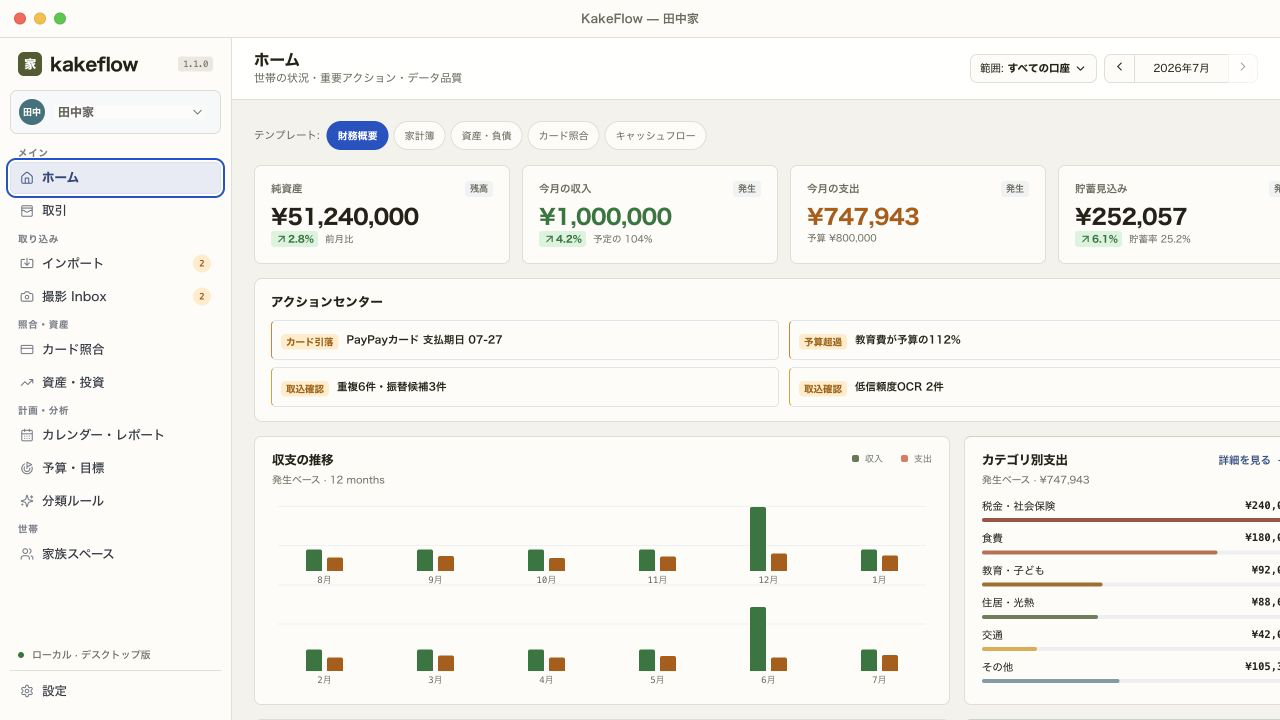
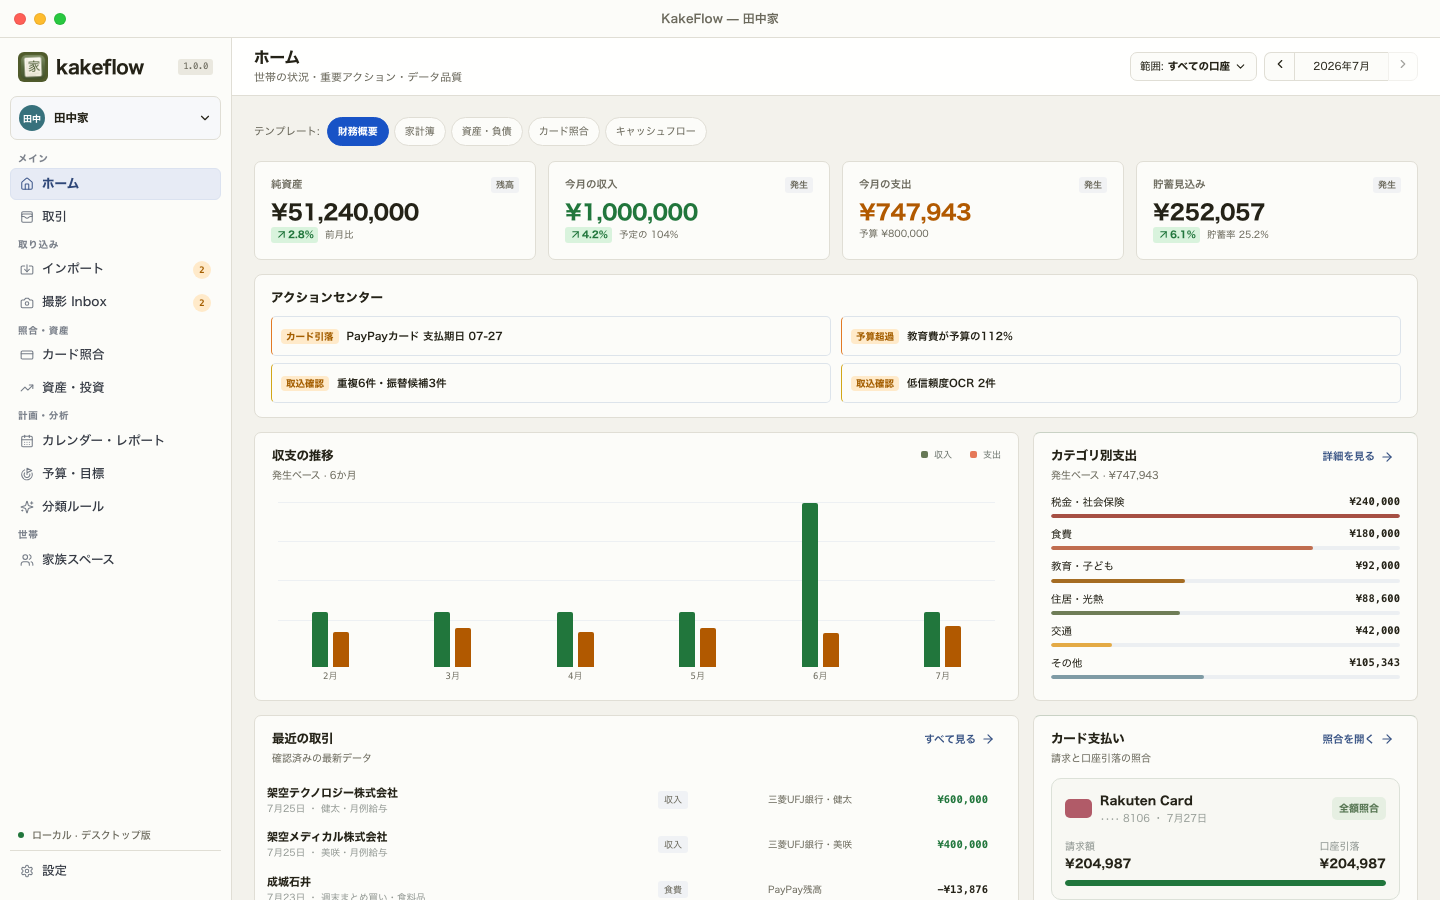
feat: publish KakeFlow 1.0.0 product page

diff --git a/apps/kakeflow/index.html b/apps/kakeflow/index.html
@@ -3,40 +3,35 @@
 <head>
   <meta charset="utf-8">
   <meta name="viewport" content="width=device-width, initial-scale=1">
-  <title>KakeFlow — 家計の全体像と、次のアクションをひとつに。</title>
-  <meta name="description" content="KakeFlow は、家計データを端末内で取り込み、確認し、根拠の残る台帳から次に必要なアクションまで見渡せる、開発中のローカルファースト・デスクトップアプリです。">
+  <title>KakeFlow 1.0.0 — 原本から、判断できる家計へ。</title>
+  <meta name="description" content="KakeFlow は、銀行・カード・証券・レシートのデータを端末内で取り込み、確認してから台帳へ反映するローカルファースト家計管理アプリです。">
   <link rel="canonical" href="https://thangldw.github.io/apps/kakeflow/">
   <meta property="og:type" content="website">
-  <meta property="og:title" content="KakeFlow — 家計の全体像と、次のアクションをひとつに。">
-  <meta property="og:description" content="取り込み、確認、照合、計画を、ひとつの家計ワークスペースで。">
+  <meta property="og:title" content="KakeFlow 1.0.0 — 原本から、判断できる家計へ。">
+  <meta property="og:description" content="取り込み、確認、照合、計画を、根拠の残るローカル台帳で。">
   <meta property="og:url" content="https://thangldw.github.io/apps/kakeflow/">
   <meta property="og:image" content="https://thangldw.github.io/apps/kakeflow/assets/screenshots/kakeflow-overview.png">
-  <meta property="og:image:width" content="1280">
-  <meta property="og:image:height" content="720">
+  <meta property="og:image:width" content="1440">
+  <meta property="og:image:height" content="900">
   <meta name="twitter:card" content="summary_large_image">
   <meta name="theme-color" content="#f2f1ec">
   <link rel="icon" href="/favicon.svg" type="image/svg+xml">
-  <link rel="stylesheet" href="kakeflow-page.css?v=20260716-v2">
+  <link rel="stylesheet" href="kakeflow-page.css?v=20260718-v1">
   <script defer src="/js/analytics.js"></script>
 </head>
 <body>
   <a class="skip-link" href="#main">本文へ移動</a>
 
-  <div class="desktop-bar" aria-hidden="true">
-    <span>KakeFlow · Product preview</span>
-  </div>
+  <div class="desktop-bar" aria-hidden="true"><span>KakeFlow · Version 1.0.0</span></div>
 
   <header class="site-header">
     <div class="nav-shell">
-      <a class="wordmark" href="#top" aria-label="KakeFlow ホーム"><img class="brand-mark" src="assets/kakeflow-brand-mark.png" width="24" height="24" alt=""><b>kakeflow</b><small>PREVIEW</small></a>
+      <a class="wordmark" href="#top" aria-label="KakeFlow ホーム"><img class="brand-mark" src="assets/kakeflow-brand-mark.png" width="24" height="24" alt=""><b>kakeflow</b><small>1.0.0</small></a>
       <button class="menu-toggle" type="button" aria-expanded="false" aria-controls="primary-nav">メニュー</button>
       <nav id="primary-nav" aria-label="ページ内ナビゲーション">
-        <a href="#flow">仕組み</a>
-        <a href="#screens">画面</a>
-        <a href="#workspaces">機能</a>
-        <a href="#release">公開予定</a>
+        <a href="#principles">設計</a><a href="#flow">仕組み</a><a href="#screens">画面</a><a href="#release">ダウンロード</a>
       </nav>
-      <a class="project-link" href="/apps/">All projects</a>
+      <a class="project-link" href="https://github.com/thangldw/kakeflow">GitHub</a>
     </div>
   </header>
 
@@ -44,56 +39,54 @@
     <section class="hero" id="top">
       <div class="hero-shell">
         <div class="hero-copy">
-          <p class="section-label"><span>PRIVATE DEVELOPMENT</span> LOCAL-FIRST DESKTOP</p>
-          <h1>家計の全体像と、<br><em>次のアクション</em>をひとつに。</h1>
-          <p class="hero-lede">銀行、カード、レシート、電子マネー、証券口座。ばらばらの記録を端末内で取り込み、確認が必要な項目を先に整理。確定した台帳から、今月の状況と次にやることを見渡せます。</p>
+          <p class="section-label"><span>STABLE 1.0.0</span> LOCAL-FIRST DESKTOP</p>
+          <h1>原本から、<br><em>判断できる家計</em>へ。</h1>
+          <p class="hero-lede">銀行、カード、レシート、電子マネー、証券口座。ばらばらの記録を端末内で取り込み、確認が必要な項目だけを整理。確定した台帳から、家計の全体像と次のアクションを見渡せます。</p>
           <div class="hero-actions">
-            <span class="button button-primary button-disabled">Coming soon</span>
-            <a class="button button-secondary" href="#screens">開発中の画面を見る</a>
+            <a class="button button-primary" href="https://github.com/thangldw/kakeflow-releases/releases/download/v1.0.0/KakeFlow_1.0.0_aarch64.dmg">macOS版をダウンロード</a>
+            <a class="button button-secondary" href="https://github.com/thangldw/kakeflow/releases/tag/v1.0.0">ソースを見る</a>
           </div>
-          <p class="release-note">ソースコード、ダウンロード、正式なリリース日はまだ公開していません。</p>
+          <p class="release-note">macOS Apple Silicon · ad-hoc署名 · 未Notarize。ダウンロード後にSHA-256を確認してください。</p>
         </div>
 
         <figure class="product-preview">
-          <div class="preview-toolbar"><b>ホーム</b><span>世帯の状況・重要アクション・データ品質</span><small>v1.1 UI</small></div>
-          <img src="assets/screenshots/kakeflow-overview.png" width="1280" height="720" alt="KakeFlow のホーム画面。純資産、収入、支出、貯蓄見込み、アクションセンター、収支推移を表示" fetchpriority="high">
-          <figcaption>掲載画面は開発中の UI プレビューです。</figcaption>
+          <div class="preview-toolbar"><b>ホーム</b><span>世帯の状況・重要アクション・データ品質</span><small>v1.0.0</small></div>
+          <img src="assets/screenshots/kakeflow-overview.png" width="1440" height="900" alt="KakeFlow 1.0.0 のホーム画面。純資産、収入、支出、貯蓄見込み、アクションセンターを表示" fetchpriority="high">
+          <figcaption>架空のサンプル世帯を使用した実際のブラウザプレビューです。</figcaption>
         </figure>
       </div>
     </section>
 
-    <section class="status-strip" aria-label="KakeFlow の設計原則">
-      <article><span>LOCAL</span><b>端末内で処理</b><p>家計データをローカルに保持</p></article>
-      <article><span>REVIEW</span><b>確認してから転記</b><p>未確認候補は集計に含めない</p></article>
-      <article><span>EVIDENCE</span><b>原本まで追跡</b><p>CSV 行、PDF、レシートへ戻れる</p></article>
-      <article><span>SCOPE</span><b>範囲を明示</b><p>口座、家族、計上基準を切り替え</p></article>
+    <section class="status-strip" id="principles" aria-label="KakeFlow の設計原則">
+      <article><span>LOCAL</span><b>端末内で保存</b><p>台帳、原本、資格情報、レポートをローカル管理</p></article>
+      <article><span>REVIEW</span><b>確認してから転記</b><p>OCRやルールは候補を作り、自動記帳しない</p></article>
+      <article><span>EVIDENCE</span><b>原本まで追跡</b><p>CSV行、PDFページ、レシートへ戻れる</p></article>
+      <article><span>ACCOUNTING</span><b>二重計上を防ぐ</b><p>カード利用と後日の引落を別の事実として照合</p></article>
     </section>
 
     <section class="section" id="flow">
       <div class="section-heading">
-        <div><p class="section-kicker">ONE REVIEWABLE FLOW</p><h2>集める。確かめる。判断する。</h2></div>
-        <p>ファイルを入れた瞬間に家計を上書きしない。処理段階と確認理由を見せ、人が確定した取引だけを台帳とレポートへつなぎます。</p>
+        <div><p class="section-kicker">ONE REVIEWABLE FLOW</p><h2>集める。確かめる。確定する。</h2></div>
+        <p>ファイルを入れた瞬間に家計を上書きしません。原本、抽出結果、確認候補、確定仕訳を分け、判断の履歴を残します。</p>
       </div>
-
       <div class="flow-panel">
-        <div class="panel-toolbar"><div><b>家計データの流れ</b><span>原本からアクションまで</span></div><small>REVIEW GATED</small></div>
+        <div class="panel-toolbar"><div><b>家計データの流れ</b><span>原本からレポートまで</span></div><small>REVIEW GATED</small></div>
         <ol class="flow-steps">
-          <li><span>01 · COLLECT</span><b>原本を集める</b><p>銀行・カード・証券の明細、メール添付、レシート画像。</p><small>CSV · XLSX · PDF · EML · IMAGE</small></li>
-          <li><span>02 · DETECT</span><b>Inbox で検出</b><p>形式、件数、処理段階を表示。OCR も端末内で実行。</p><small>SOURCE KEPT</small></li>
-          <li><span>03 · REVIEW</span><b>候補を確かめる</b><p>口座、カテゴリ、重複、振替、カード引落を確認。</p><small>HUMAN DECISION</small></li>
-          <li class="confirmed"><span>04 · POST</span><b>台帳へ確定</b><p>確認済み取引だけを一貫した計上基準で保存。</p><small>CONFIRMED LEDGER</small></li>
-          <li><span>05 · ACT</span><b>次を判断する</b><p>Home、照合、予算、予測、レポートへ反映。</p><small>ACTION CENTER</small></li>
+          <li><span>01 · SOURCE</span><b>原本を保存</b><p>CSV、Excel、PDF、画像、ZIP、EMLをそのまま保持。</p><small>IMMUTABLE</small></li>
+          <li><span>02 · EXTRACT</span><b>形式を厳密に解析</b><p>文字コード、ヘッダー、金額、通貨、行範囲を検証。</p><small>FAIL CLOSED</small></li>
+          <li><span>03 · REVIEW</span><b>候補を確かめる</b><p>口座、カテゴリ、重複、返金、分割仕訳を修正。</p><small>HUMAN DECISION</small></li>
+          <li class="confirmed"><span>04 · POST</span><b>台帳へ確定</b><p>承認した候補だけを均衡した仕訳として保存。</p><small>CONFIRMED LEDGER</small></li>
+          <li><span>05 · ACT</span><b>次を判断する</b><p>照合、予算、予測、投資、月次・年次レビューへ反映。</p><small>SOURCE BACKED</small></li>
         </ol>
-        <div class="review-rule"><span>REVIEW RULE</span><p><b>未確認の候補を、確定した数字に混ぜない。</b> 検出 → レビュー → 転記の状態を常に明示します。</p></div>
+        <div class="review-rule"><span>V1.0.0</span><p><b>返金・調整行はレビューで手動修正できます。</b> クレジット会社のPDF原本は変更せず、修正した仕訳とのリンクを残します。</p></div>
       </div>
     </section>
 
     <section class="section screens-section" id="screens">
       <div class="section-heading">
-        <div><p class="section-kicker">CURRENT PRODUCT UI</p><h2>目的ごとに分かれ、同じ台帳でつながる。</h2></div>
-        <p>各画面は役割をひとつに絞りながら、対象月・口座・家族・計上基準を引き継ぎます。</p>
+        <div><p class="section-kicker">CURRENT PRODUCT UI</p><h2>同じ台帳を、仕事ごとに見る。</h2></div>
+        <p>ホーム、取引、インポートは、対象月・口座・家族・計上基準を引き継ぎます。日本語・English・Tiếng Việtに対応しています。</p>
       </div>
-
       <div class="screen-shell">
         <div class="screen-sidebar">
           <p>画面プレビュー</p>
@@ -102,56 +95,54 @@
             <button id="tab-transactions" role="tab" aria-selected="false" aria-controls="screen-panel" data-screen="transactions" type="button" tabindex="-1"><b>取引</b><span>確定済み台帳・検索・証跡</span></button>
             <button id="tab-import" role="tab" aria-selected="false" aria-controls="screen-panel" data-screen="import" type="button" tabindex="-1"><b>インポート</b><span>検出・レビュー・転記</span></button>
           </div>
-          <div class="sidebar-note"><span>LOCAL DATA</span><p>プレビューはサンプル世帯を使用しています。</p></div>
+          <div class="sidebar-note"><span>LOCAL DATA</span><p>画面は架空のデモデータです。</p></div>
         </div>
         <figure id="screen-panel" class="screen-panel" role="tabpanel" aria-labelledby="tab-overview">
           <div class="screen-panel-toolbar"><div><b id="screen-title">ホーム</b><span id="screen-subtitle">世帯の状況・重要アクション・データ品質</span></div><small id="screen-status">CONFIRMED DATA</small></div>
-          <img id="screen-image" src="assets/screenshots/kakeflow-overview.png" width="1280" height="720" alt="KakeFlow のホーム画面">
-          <figcaption id="screen-caption">集計結果だけでなく、カード引落、予算超過、重複候補、低信頼度 OCR など、対応が必要な項目を先に表示します。</figcaption>
+          <img id="screen-image" src="assets/screenshots/kakeflow-overview.png" width="1440" height="900" alt="KakeFlow のホーム画面">
+          <figcaption id="screen-caption">集計結果と、カード引落、予算超過、重複候補、低信頼度OCRなど対応が必要な項目を同じ画面で確認します。</figcaption>
         </figure>
       </div>
     </section>
 
     <section class="section" id="workspaces">
       <div class="section-heading">
-        <div><p class="section-kicker">TEN FOCUSED WORKSPACES</p><h2>日々の記録から、家族の計画まで。</h2></div>
-        <p>新しいナビゲーションは、機能の羅列ではなく家計管理の仕事に沿って整理されています。</p>
+        <div><p class="section-kicker">WHAT SHIPS IN 1.0.0</p><h2>日常支出から投資・家族まで。</h2></div>
+        <p>日本の家計管理で頻出するカテゴリ、金融ファイル、カード照合、投資スナップショットをひとつのレビュー体験にまとめました。</p>
       </div>
-
       <div class="workspace-grid">
-        <article><header><span>メイン</span><small>01</small></header><h3>ホーム・取引</h3><p>家計の状況と優先アクションを確認し、確定済み台帳へ掘り下げます。</p><ul><li>Action Center</li><li>Data Quality</li><li>検索・証跡</li></ul></article>
-        <article><header><span>取り込み</span><small>02</small></header><h3>Import・撮影 Inbox</h3><p>ファイル、メール添付、レシートを同じレビュー体験へ集約します。</p><ul><li>処理段階</li><li>端末内 OCR</li><li>重複レビュー</li></ul></article>
-        <article><header><span>照合・資産</span><small>03</small></header><h3>カード・資産・投資</h3><p>請求と銀行引落を照合し、投資を日常支出と分けて純資産へ統合します。</p><ul><li>カード照合</li><li>保有・損益</li><li>残高スナップショット</li></ul></article>
-        <article><header><span>計画・分析</span><small>04</small></header><h3>レポート・予算・ルール</h3><p>カレンダー、月次・年次レビュー、予測、固定費、分類ルールを連携します。</p><ul><li>予算・目標</li><li>予測・異常</li><li>CSV・XLSX・PDF</li></ul></article>
-        <article><header><span>世帯</span><small>05</small></header><h3>家族スペース</h3><p>世帯メンバー、帰属、共有範囲を明示し、家族のレビューを分けて扱います。</p><ul><li>家族集計範囲</li><li>個人・共通</li><li>共有レビュー</li></ul></article>
+        <article><header><span>取り込み</span><small>01</small></header><h3>ファイル・PDF・OCR</h3><p>CSV、TSV、Excel、PDF、画像、ZIP、EML、Gmail、Drive、監視フォルダ。</p><ul><li>Shift-JIS</li><li>端末内OCR</li><li>重複確認</li></ul></article>
+        <article><header><span>家計</span><small>02</small></header><h3>台帳・カード照合</h3><p>二重仕訳、分類ルール、返金・調整、カード請求と銀行引落の照合。</p><ul><li>原本証跡</li><li>集計対象</li><li>手動修正</li></ul></article>
+        <article><header><span>投資</span><small>03</small></header><h3>資産・FIFO損益</h3><p>証券取引、assetbalance(all)、通貨別評価、実現損益、スナップショット。</p><ul><li>保有数量</li><li>取得原価</li><li>例外表示</li></ul></article>
+        <article><header><span>分析</span><small>04</small></header><h3>予算・予測・レポート</h3><p>月次・年次レビュー、固定費、異常支出、CSV・XLSX・PDF出力。</p><ul><li>家計簿カテゴリ</li><li>Action Center</li><li>範囲を維持</li></ul></article>
+        <article><header><span>家族</span><small>05</small></header><h3>暗号化された受け渡し</h3><p>共有・個人の範囲を分け、受信側で競合を確認してから一括反映。</p><ul><li>Audience</li><li>Digest検証</li><li>Atomic apply</li></ul></article>
       </div>
     </section>
 
     <section class="section release-section" id="release">
       <div class="section-heading">
-        <div><p class="section-kicker">HONEST PREVIEW BOUNDARY</p><h2>開発中の現在と、公開までのこれから。</h2></div>
-        <p>このページは新しい体験を先行公開するものです。今すぐ利用できる製品や正式リリースを示すものではありません。</p>
+        <div><p class="section-kicker">DOWNLOAD 1.0.0</p><h2>配布情報と制約を明確に。</h2></div>
+        <p>公開ファイルはGitHub Releasesに置き、チェックサムを同じリリースに添付しています。</p>
       </div>
-
       <div class="release-grid">
-        <article class="release-card active"><header><span>IN DEVELOPMENT</span><small>ACTIVE</small></header><h3>現在検証していること</h3><ul><li>仕事別に再編したナビゲーション</li><li>Home の Action Center と Data Quality</li><li>撮影 Inbox、予算・目標、分類ルール</li><li>口座・家族・計上基準のスコープ操作</li></ul></article>
-        <article class="release-card"><header><span>BEFORE PUBLIC LAUNCH</span><small>NEXT</small></header><h3>公開前に仕上げること</h3><ul><li>macOS・Windows の配布と更新経路</li><li>対応形式と制約の文書化</li><li>バックアップ、復元、データ保護</li><li>実データを使った packaged app 検証</li></ul></article>
-        <article class="release-card caution"><header><span>PREVIEW LIMITS</span><small>PRIVATE</small></header><h3>今はまだ提供しないもの</h3><ul><li>アプリの一般ダウンロード</li><li>ソースコードと private repository</li><li>正式な対応金融機関一覧</li><li>リリース日、価格、サポート条件</li></ul></article>
+        <article class="release-card active"><header><span>macOS APPLE SILICON</span><small>AVAILABLE</small></header><h3>KakeFlow 1.0.0</h3><ul><li>KakeFlow_1.0.0_aarch64.dmg</li><li>ad-hoc署名・未Notarize</li><li>SHA256SUMS.txtを同梱</li><li><a href="https://github.com/thangldw/kakeflow-releases/releases/tag/v1.0.0">リリース詳細を見る</a></li></ul></article>
+        <article class="release-card"><header><span>SOURCE</span><small>PUBLIC</small></header><h3>検証可能なソース</h3><ul><li>React + TypeScript + Tauri 2</li><li>Rust / SQLCipher</li><li>727 automated tests</li><li><a href="https://github.com/thangldw/kakeflow">GitHub repository</a></li></ul></article>
+        <article class="release-card caution"><header><span>LIMITS</span><small>READ FIRST</small></header><h3>現在の公開範囲</h3><ul><li>Windows公開バイナリなし</li><li>Google連携はテストユーザー向け</li><li>自動アップデートは無効</li><li>送金・支払い・発注は行わない</li></ul></article>
       </div>
     </section>
 
     <section class="closing-panel">
-      <div><p class="section-kicker">LOCAL-FIRST · REVIEWABLE · ACTIONABLE</p><h2>家計の数字を、次の判断につなげる。</h2><p>正確さの根拠と、今やるべきことが同じ場所にある家計簿を目指しています。</p></div>
-      <div class="closing-actions"><span class="button button-primary button-disabled">Coming soon</span><a class="button button-secondary" href="/apps/">Back to projects</a></div>
+      <div><p class="section-kicker">LOCAL-FIRST · REVIEWABLE · TRACEABLE</p><h2>家計の数字に、根拠を残す。</h2><p>原本を守り、人が確認した内容だけを、次の判断につなげます。</p></div>
+      <div class="closing-actions"><a class="button button-primary" href="https://github.com/thangldw/kakeflow-releases/releases/tag/v1.0.0">ダウンロード</a><a class="button button-secondary" href="https://github.com/thangldw/kakeflow#readme">ドキュメント</a></div>
     </section>
   </main>
 
   <footer>
     <a class="wordmark" href="#top"><img class="brand-mark" src="assets/kakeflow-brand-mark.png" width="24" height="24" alt=""><b>kakeflow</b></a>
     <p>Local-first household finance for macOS and Windows.</p>
-    <p>© 2026 KakeFlow · Private preview</p>
+    <p>© 2026 KakeFlow · v1.0.0</p>
   </footer>
 
-  <script src="kakeflow-page.js?v=20260716-v2"></script>
+  <script src="kakeflow-page.js?v=20260718-v1"></script>
 </body>
 </html>
